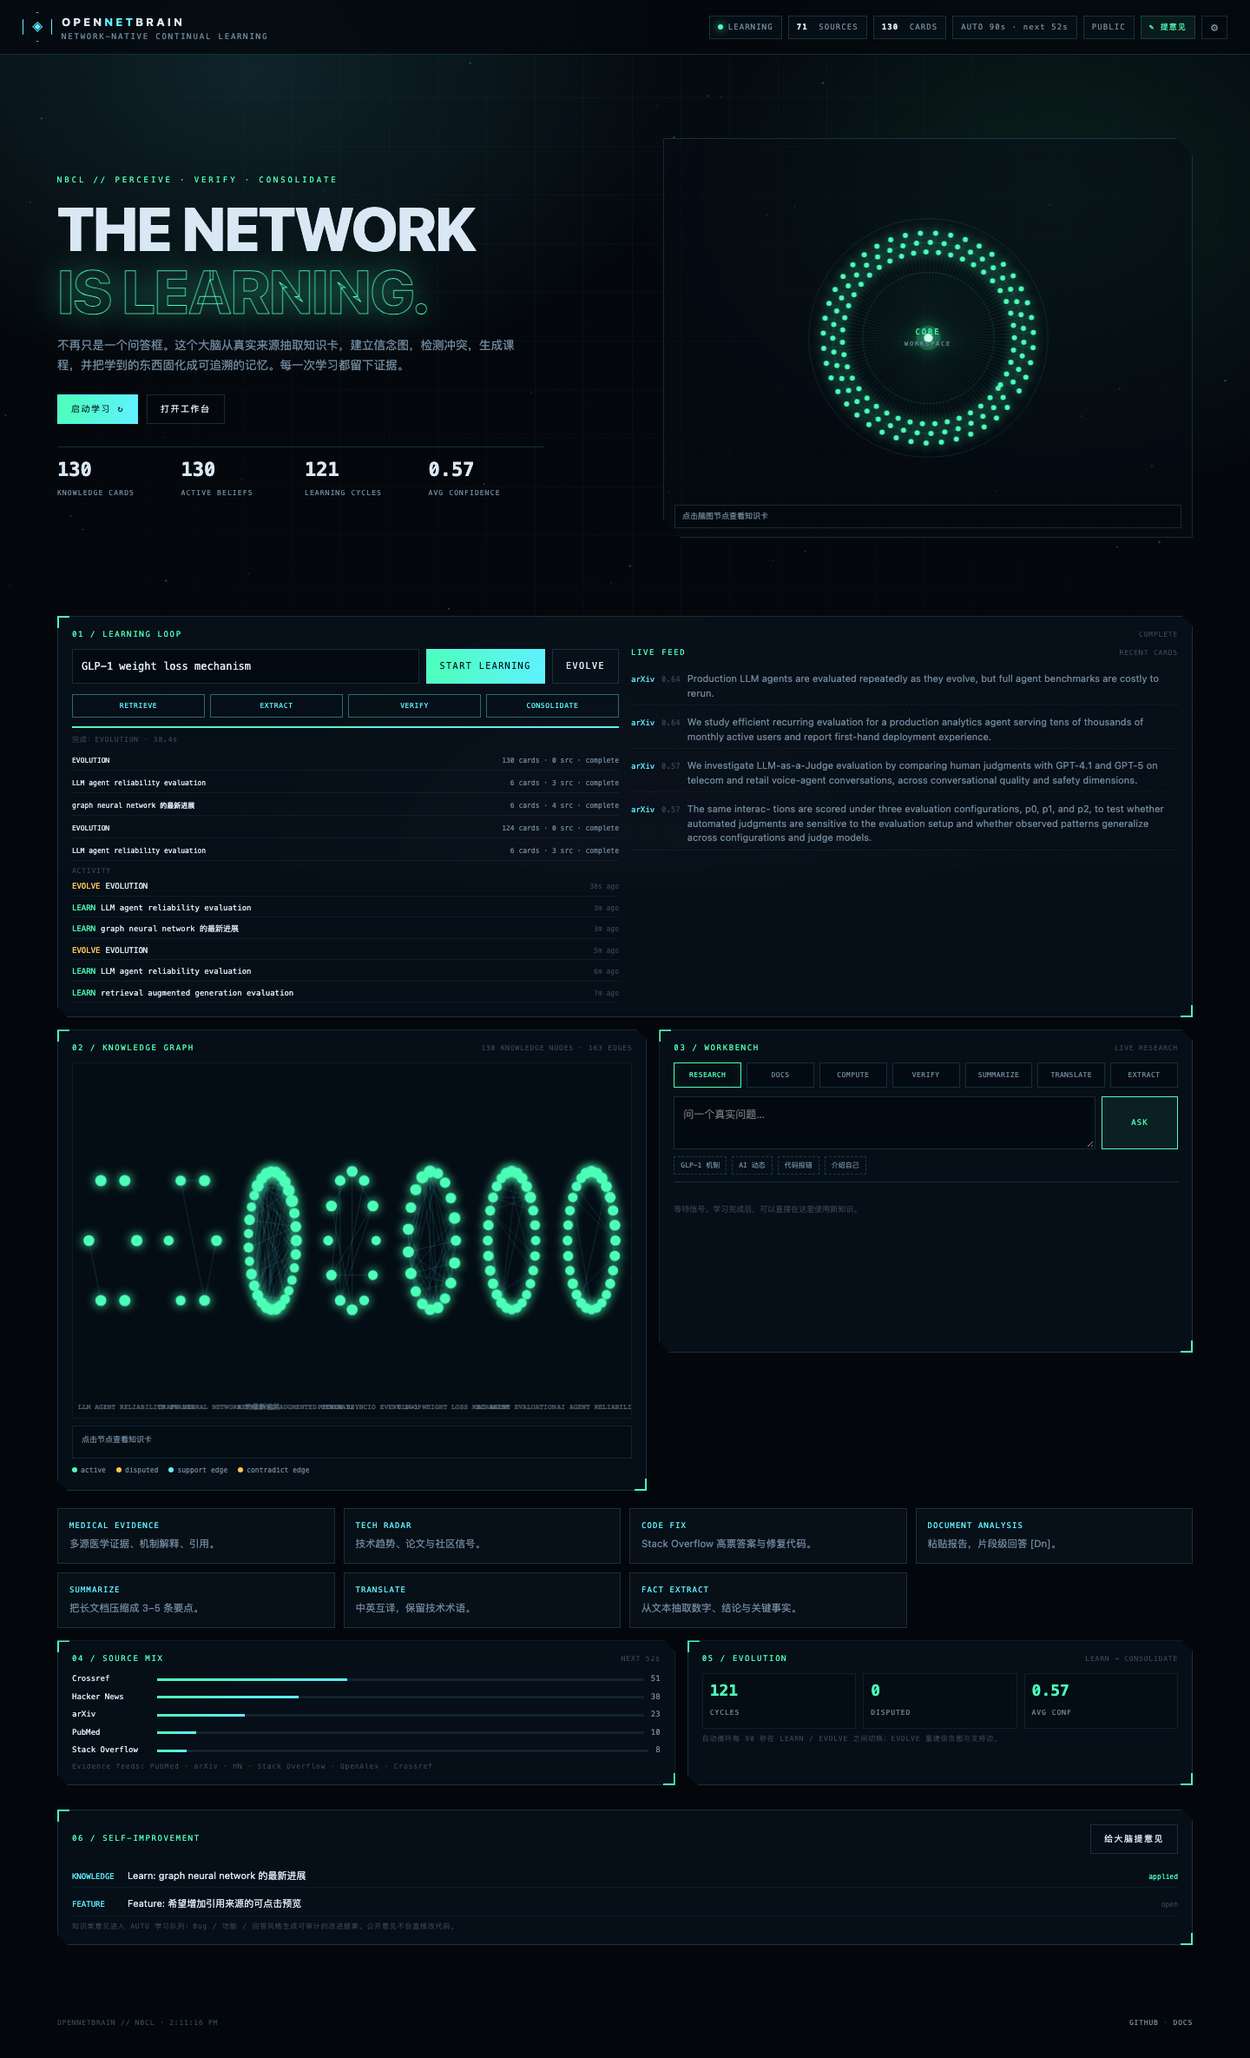
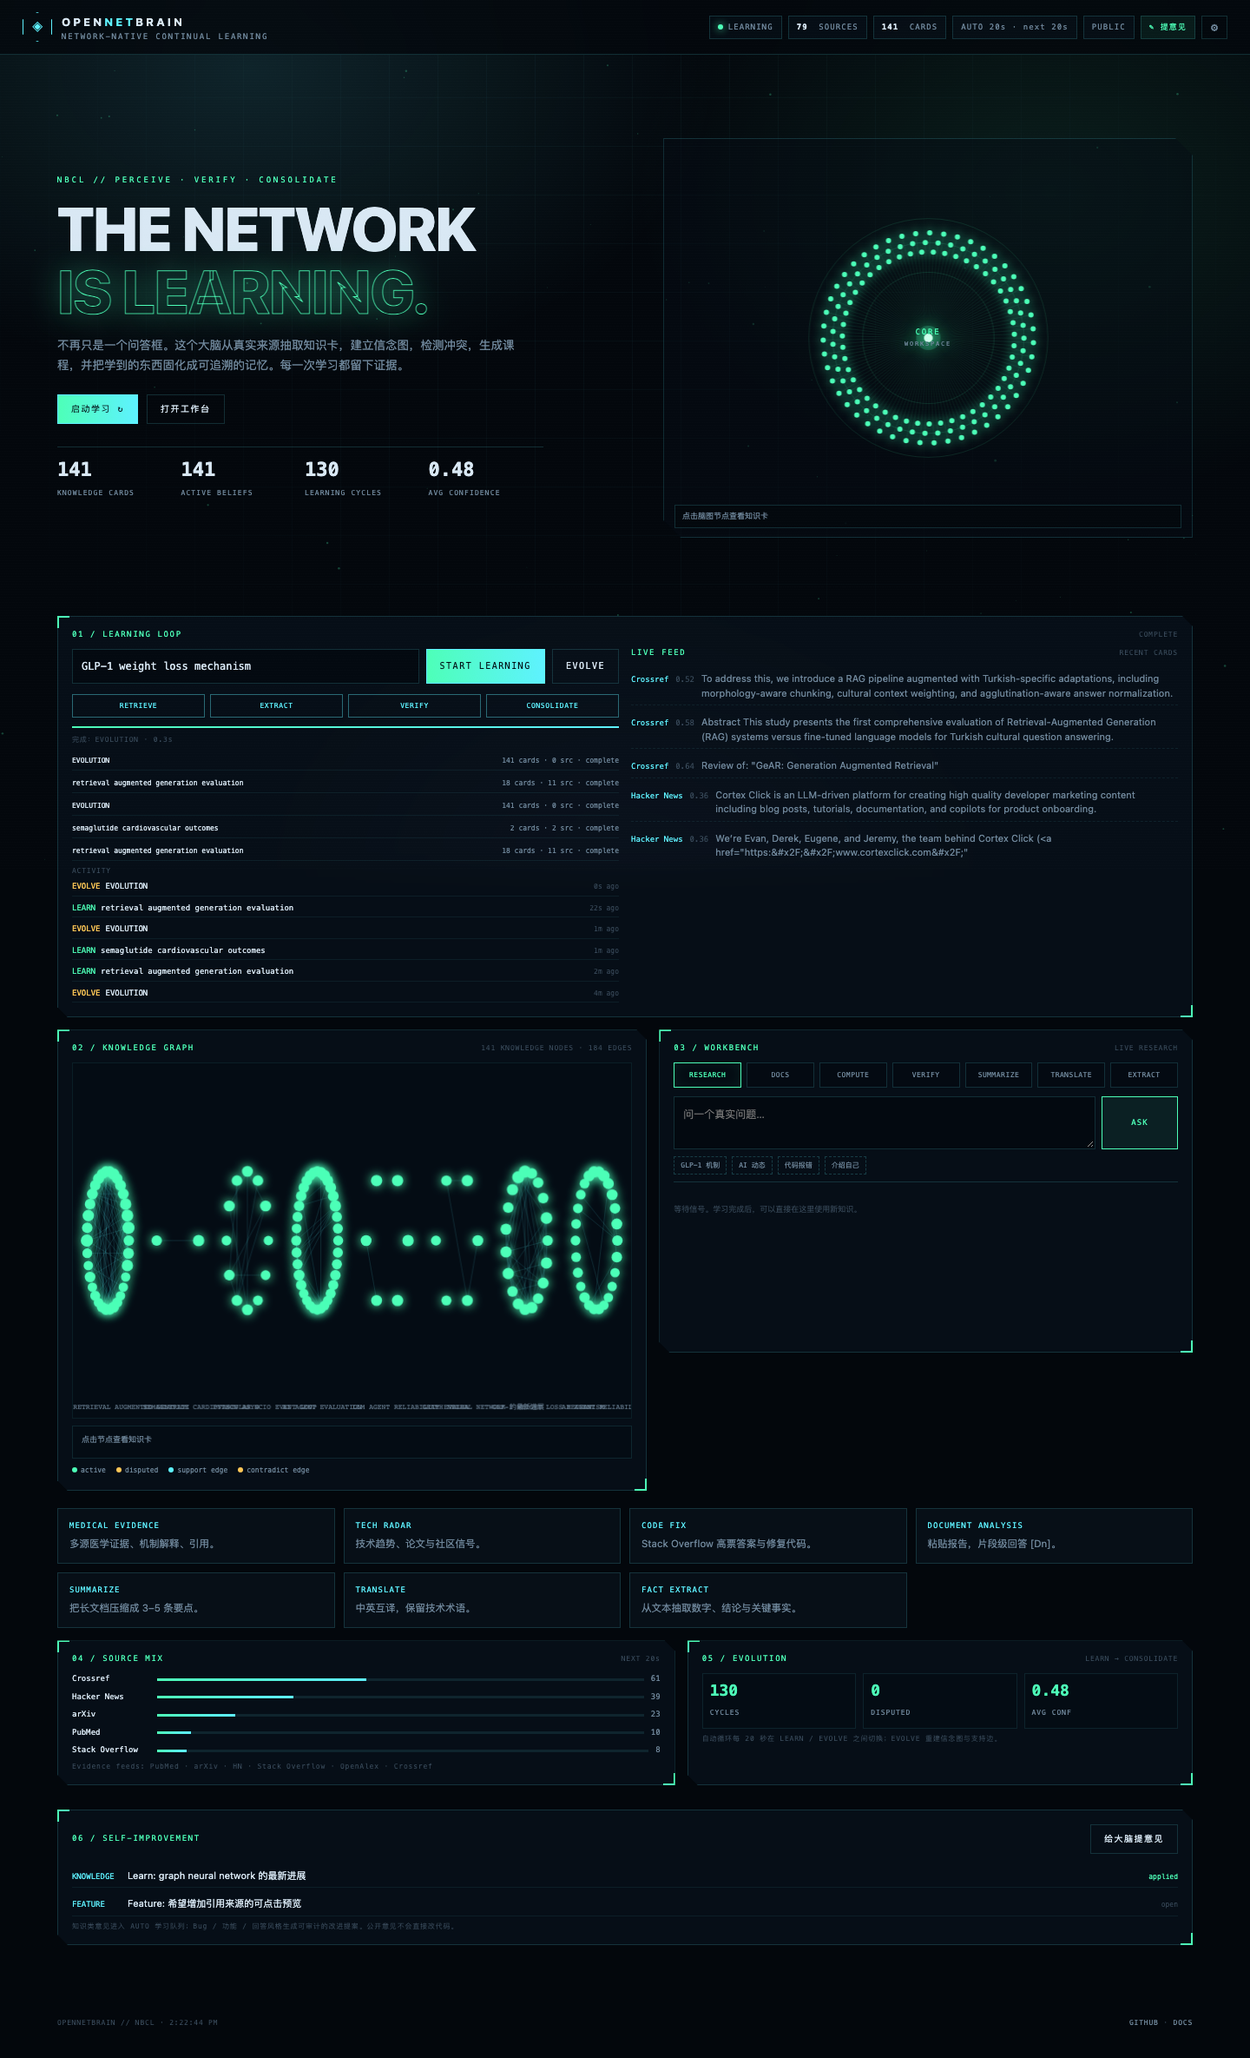
perf: 20s auto interval + 15s heartbeat, v12

diff --git a/brain.html b/brain.html
@@ -188,8 +188,8 @@ footer{max-width:1360px;margin:0 auto;padding:0 26px 34px;display:flex;justify-c
     <div class="app" data-mode="research" data-q="GLP-1 减肥药的作用机制是什么？"><b>MEDICAL EVIDENCE</b><p>多源医学证据、机制解释、引用。</p></div>
     <div class="app" data-mode="research" data-q="最近 AI agent 评估有什么值得关注？"><b>TECH RADAR</b><p>技术趋势、论文与社区信号。</p></div>
     <div class="app" data-mode="research" data-q="Python asyncio RuntimeError event loop is closed 怎么解决？"><b>CODE FIX</b><p>Stack Overflow 高票答案与修复代码。</p></div>
-    <div class="app" data-mode="docs" data-doc="OpenNetBrain 从真实来源抽取知识卡，建立信念图，检测冲突并生成课程。它每 90 秒自动学习/进化，所有知识都可追溯。" data-q="这份文档的核心结论是什么？"><b>DOCUMENT ANALYSIS</b><p>粘贴报告，片段级回答 [Dn]。</p></div>
-    <div class="app" data-mode="summarize" data-doc="OpenNetBrain 从真实来源抽取知识卡，建立信念图，检测冲突并生成课程。它每 90 秒自动学习/进化，所有知识都可追溯。知识卡、信念图和课程让网络持续积累可追溯的记忆。" data-q="总结要点"><b>SUMMARIZE</b><p>把长文档压缩成 3–5 条要点。</p></div>
+    <div class="app" data-mode="docs" data-doc="OpenNetBrain 从真实来源抽取知识卡，建立信念图，检测冲突并生成课程。它每 20 秒自动学习/进化，所有知识都可追溯。" data-q="这份文档的核心结论是什么？"><b>DOCUMENT ANALYSIS</b><p>粘贴报告，片段级回答 [Dn]。</p></div>
+    <div class="app" data-mode="summarize" data-doc="OpenNetBrain 从真实来源抽取知识卡，建立信念图，检测冲突并生成课程。它每 20 秒自动学习/进化，所有知识都可追溯。知识卡、信念图和课程让网络持续积累可追溯的记忆。" data-q="总结要点"><b>SUMMARIZE</b><p>把长文档压缩成 3–5 条要点。</p></div>
     <div class="app" data-mode="translate" data-doc="OpenNetBrain learns from real sources. It builds knowledge cards, a belief graph, and answers with citations." data-q="翻译"><b>TRANSLATE</b><p>中英互译，保留技术术语。</p></div>
     <div class="app" data-mode="extract" data-doc="GLP-1 receptor agonists reduce appetite and slow gastric emptying. In a 2023 review, semaglutide produced 15% weight loss in adults with obesity. The trial enrolled 1,961 participants over 68 weeks." data-q="提取关键事实"><b>FACT EXTRACT</b><p>从文本抽取数字、结论与关键事实。</p></div>
   </section>
@@ -205,7 +205,7 @@ footer{max-width:1360px;margin:0 auto;padding:0 26px 34px;display:flex;justify-c
       <div class="evo-grid" id="evoStats">
         <div><b>--</b><span>CYCLES</span></div><div><b>--</b><span>DISPUTED</span></div><div><b>--</b><span>AVG CONF</span></div>
       </div>
-      <div class="hint" style="margin-top:8px">自动循环每 90 秒在 LEARN / EVOLVE 之间切换；EVOLVE 重建信念图与支持边。</div>
+      <div class="hint" style="margin-top:8px">自动循环每 20 秒在 LEARN / EVOLVE 之间切换；EVOLVE 重建信念图与支持边。</div>
     </div>
   </section>
   <section class="panel" style="margin-top:14px">
@@ -222,7 +222,7 @@ footer{max-width:1360px;margin:0 auto;padding:0 26px 34px;display:flex;justify-c
   <button class="card-close" id="closeFeedback">×</button>
   <div class="tag">COMMUNITY INPUT // SELF-IMPROVEMENT</div>
   <h3>给网络大脑提意见</h3>
-  <p class="hint">告诉它哪里不好、缺什么能力，或希望它学习什么主题。知识类意见会自动进入 90 秒 AUTO 学习队列。</p>
+  <p class="hint">告诉它哪里不好、缺什么能力，或希望它学习什么主题。知识类意见会自动进入 20 秒 AUTO 学习队列。</p>
   <select id="fbKind">
     <option value="knowledge">知识 / 学习主题</option>
     <option value="feature">功能建议</option>

diff --git a/docs/brain.html b/docs/brain.html
@@ -188,8 +188,8 @@ footer{max-width:1360px;margin:0 auto;padding:0 26px 34px;display:flex;justify-c
     <div class="app" data-mode="research" data-q="GLP-1 减肥药的作用机制是什么？"><b>MEDICAL EVIDENCE</b><p>多源医学证据、机制解释、引用。</p></div>
     <div class="app" data-mode="research" data-q="最近 AI agent 评估有什么值得关注？"><b>TECH RADAR</b><p>技术趋势、论文与社区信号。</p></div>
     <div class="app" data-mode="research" data-q="Python asyncio RuntimeError event loop is closed 怎么解决？"><b>CODE FIX</b><p>Stack Overflow 高票答案与修复代码。</p></div>
-    <div class="app" data-mode="docs" data-doc="OpenNetBrain 从真实来源抽取知识卡，建立信念图，检测冲突并生成课程。它每 90 秒自动学习/进化，所有知识都可追溯。" data-q="这份文档的核心结论是什么？"><b>DOCUMENT ANALYSIS</b><p>粘贴报告，片段级回答 [Dn]。</p></div>
-    <div class="app" data-mode="summarize" data-doc="OpenNetBrain 从真实来源抽取知识卡，建立信念图，检测冲突并生成课程。它每 90 秒自动学习/进化，所有知识都可追溯。知识卡、信念图和课程让网络持续积累可追溯的记忆。" data-q="总结要点"><b>SUMMARIZE</b><p>把长文档压缩成 3–5 条要点。</p></div>
+    <div class="app" data-mode="docs" data-doc="OpenNetBrain 从真实来源抽取知识卡，建立信念图，检测冲突并生成课程。它每 20 秒自动学习/进化，所有知识都可追溯。" data-q="这份文档的核心结论是什么？"><b>DOCUMENT ANALYSIS</b><p>粘贴报告，片段级回答 [Dn]。</p></div>
+    <div class="app" data-mode="summarize" data-doc="OpenNetBrain 从真实来源抽取知识卡，建立信念图，检测冲突并生成课程。它每 20 秒自动学习/进化，所有知识都可追溯。知识卡、信念图和课程让网络持续积累可追溯的记忆。" data-q="总结要点"><b>SUMMARIZE</b><p>把长文档压缩成 3–5 条要点。</p></div>
     <div class="app" data-mode="translate" data-doc="OpenNetBrain learns from real sources. It builds knowledge cards, a belief graph, and answers with citations." data-q="翻译"><b>TRANSLATE</b><p>中英互译，保留技术术语。</p></div>
     <div class="app" data-mode="extract" data-doc="GLP-1 receptor agonists reduce appetite and slow gastric emptying. In a 2023 review, semaglutide produced 15% weight loss in adults with obesity. The trial enrolled 1,961 participants over 68 weeks." data-q="提取关键事实"><b>FACT EXTRACT</b><p>从文本抽取数字、结论与关键事实。</p></div>
   </section>
@@ -205,7 +205,7 @@ footer{max-width:1360px;margin:0 auto;padding:0 26px 34px;display:flex;justify-c
       <div class="evo-grid" id="evoStats">
         <div><b>--</b><span>CYCLES</span></div><div><b>--</b><span>DISPUTED</span></div><div><b>--</b><span>AVG CONF</span></div>
       </div>
-      <div class="hint" style="margin-top:8px">自动循环每 90 秒在 LEARN / EVOLVE 之间切换；EVOLVE 重建信念图与支持边。</div>
+      <div class="hint" style="margin-top:8px">自动循环每 20 秒在 LEARN / EVOLVE 之间切换；EVOLVE 重建信念图与支持边。</div>
     </div>
   </section>
   <section class="panel" style="margin-top:14px">
@@ -222,7 +222,7 @@ footer{max-width:1360px;margin:0 auto;padding:0 26px 34px;display:flex;justify-c
   <button class="card-close" id="closeFeedback">×</button>
   <div class="tag">COMMUNITY INPUT // SELF-IMPROVEMENT</div>
   <h3>给网络大脑提意见</h3>
-  <p class="hint">告诉它哪里不好、缺什么能力，或希望它学习什么主题。知识类意见会自动进入 90 秒 AUTO 学习队列。</p>
+  <p class="hint">告诉它哪里不好、缺什么能力，或希望它学习什么主题。知识类意见会自动进入 20 秒 AUTO 学习队列。</p>
   <select id="fbKind">
     <option value="knowledge">知识 / 学习主题</option>
     <option value="feature">功能建议</option>

diff --git a/docs/index.html b/docs/index.html
@@ -38,10 +38,10 @@ footer{border-top:1px solid var(--line);margin-top:20px;padding-top:14px;display
 <main>
   <p class="eyebrow">NBCL // PERCEIVE · VERIFY · CONSOLIDATE</p>
   <h1>THE NETWORK<br><em>IS LEARNING.</em></h1>
-  <p class="lead">OpenNetBrain 是一个持续学习的网络大脑：从真实来源抽取知识卡，建立信念图，检测冲突，生成课程，并把学到的东西固化成可追溯的记忆。它每 90 秒自动在“学习”和“进化”之间切换。</p>
+  <p class="lead">OpenNetBrain 是一个持续学习的网络大脑：从真实来源抽取知识卡，建立信念图，检测冲突，生成课程，并把学到的东西固化成可追溯的记忆。它每 20 秒自动在“学习”和“进化”之间切换。</p>
   <div class="actions">
-    <a class="btn" href="./brain.html?v=11">进入网络大脑</a>
-    <a class="btn ghost" href="./brain.html?v=11&feedback=1">给大脑提意见</a>
+    <a class="btn" href="./brain.html?v=12">进入网络大脑</a>
+    <a class="btn ghost" href="./brain.html?v=12&feedback=1">给大脑提意见</a>
     <a class="btn ghost" href="https://github.com/zacrisy/open-net-agent">GitHub</a>
     <a class="btn ghost" href="https://github.com/zacrisy/open-net-agent/blob/main/nbpw/DESIGN.md">设计文档</a>
   </div>
@@ -55,13 +55,13 @@ footer{border-top:1px solid var(--line);margin-top:20px;padding-top:14px;display
   <div class="grid">
     <div class="card"><b>LEARN</b><p>从 PubMed / arXiv / HN / Stack Overflow / OpenAlex / Crossref 抽取知识卡，带来源与置信度。</p></div>
     <div class="card"><b>REVISE</b><p>信念图保留支持/冲突/争议关系；新证据不删除旧卡，而是标记与审计。</p></div>
-    <div class="card"><b>CONSOLIDATE</b><p>去重、重建图、更新边；自动循环每 90 秒执行一次进化。</p></div>
+    <div class="card"><b>CONSOLIDATE</b><p>去重、重建图、更新边；自动循环每 20 秒执行一次进化。</p></div>
     <div class="card"><b>ANSWER</b><p>研究、文档、计算、核查、摘要、翻译、事实抽取——都带来源或可追溯轨迹。</p></div>
   </div>
 
   <footer>
     <div>OPENNETBRAIN // NBCL</div>
-    <div><a href="https://github.com/zacrisy/open-net-agent">GITHUB</a> · <a href="https://github.com/zacrisy/open-net-agent/blob/main/nbpw/REPORT_CONTINUAL.md">持续学习实验</a> · <a href="brain.html?v=11">控制台</a></div>
+    <div><a href="https://github.com/zacrisy/open-net-agent">GITHUB</a> · <a href="https://github.com/zacrisy/open-net-agent/blob/main/nbpw/REPORT_CONTINUAL.md">持续学习实验</a> · <a href="brain.html?v=12">控制台</a></div>
   </footer>
 </main>
 </body>

diff --git a/brain.py b/brain.py
@@ -10,7 +10,8 @@ except Exception:
 DB = os.path.join(os.path.dirname(os.path.abspath(__file__)), "brain.db")
 LOCK = threading.Lock()
 CURRENT = {"cycle_id": None, "topic": None, "stage": "idle", "started": None, "elapsed": 0}
-AUTO = {"enabled": False, "interval": 600, "next": None, "last": None, "last_kind": None}
+AUTO = {"enabled": False, "interval": 20, "next": None, "last": None, "last_kind": None}
+AUTO_INTERVAL = 20
 AUTO_STARTED = False
 DEFAULT_TOPIC = "GLP-1 weight loss mechanism"
 
@@ -227,7 +228,10 @@ def graph():
 
 
 AUTO_TOPICS = ["GLP-1 weight loss mechanism", "AI agent evaluation", "Python asyncio event loop",
-               "LLM agent reliability evaluation", "retrieval augmented generation evaluation"]
+               "LLM agent reliability evaluation", "retrieval augmented generation evaluation",
+               "graph neural network advances", "knowledge graph construction",
+               "continual learning catastrophic forgetting", "federated learning privacy",
+               "semaglutide cardiovascular outcomes"]
 
 
 def auto_start(interval=90):
@@ -348,7 +352,7 @@ def auto_tick():
             return {"status": "wait", "next_in": round(AUTO["next"] - now)}
         busy = CURRENT.get("stage") in ("retrieving", "extracting", "verifying", "consolidating")
     if busy:
-        with LOCK: AUTO["next"] = time.time() + 30
+        with LOCK: AUTO["next"] = time.time() + 5
         return {"status": "busy", "stage": CURRENT.get("stage")}
     fb = next_feedback_topic()
     if fb:
@@ -361,8 +365,8 @@ def auto_tick():
     else:
         r = start(random.choice(AUTO_TOPICS)); action = "learn"
     with LOCK:
-        AUTO.update({"enabled": True, "interval": 90, "next": time.time() + 90, "last": time.time()})
-    return {"status": "started", "action": action, "result": r, "next_in": 90}
+        AUTO.update({"enabled": True, "interval": AUTO_INTERVAL, "next": time.time() + AUTO_INTERVAL, "last": time.time()})
+    return {"status": "started", "action": action, "result": r, "next_in": AUTO_INTERVAL}
 
 
 def maybe_bootstrap():

diff --git a/promo/LAUNCH.md b/promo/LAUNCH.md
@@ -2,8 +2,8 @@
 
 ## 链接
 
-- **控制台（推荐）**：https://zacrisy.github.io/open-net-agent/brain.html?v=11
-- **短链**：https://tinyurl.com/27m45zdm
+- **控制台（推荐）**：https://zacrisy.github.io/open-net-agent/brain.html?v=12
+- **短链**：https://tinyurl.com/2d5fd8en
 - **仓库**：https://github.com/zacrisy/open-net-agent
 - **Release**：https://github.com/zacrisy/open-net-agent/releases/tag/v0.7.0
 - **Discussion**：https://github.com/zacrisy/open-net-agent/discussions/6
@@ -22,7 +22,7 @@
 
 **Title:** Show HN: OpenNetAgent – a network agent that cites real sources
 
-**URL:** https://zacrisy.github.io/open-net-agent/brain.html?v=11
+**URL:** https://zacrisy.github.io/open-net-agent/brain.html?v=12
 
 **Body:**
 
@@ -69,7 +69,7 @@ increases orexin release”, which is not in any source. So I changed the design
 Feedback (upvote) becomes experience → knowledge pack → new nodes pull it → later
 answers cite `network memory`.
 
-Control deck: https://tinyurl.com/27m45zdm
+Control deck: https://tinyurl.com/2d5fd8en
 Repo: https://github.com/zacrisy/open-net-agent
 
 Would love feedback on source ranking, translation quality, and how to distribute
@@ -97,7 +97,7 @@ curl -fsSL $COORD/install.sh | bash -s -- \
 - coordinator routes research / docs / compute / NLI tasks.
 
 I’m looking for 3–5 machine LAN tests and WAN latency reports. Control deck:
-https://tinyurl.com/27m45zdm
+https://tinyurl.com/2d5fd8en
 
 ---
 
@@ -117,7 +117,7 @@ Evidence first, not vibes.
 5/ Upvote an answer → experience → knowledge pack → new nodes pull it → later
 answers cite `network memory`.
 
-6/ Try it: https://tinyurl.com/27m45zdm
+6/ Try it: https://tinyurl.com/2d5fd8en
 Repo: https://github.com/zacrisy/open-net-agent
 Looking for node runners + contributors.
 
@@ -142,7 +142,7 @@ Looking for node runners + contributors.
 实测：GLP-1 机制返回 4 篇真实论文，约 11 秒；asyncio 报错返回 Stack Overflow
 高票答案。
 
-体验：https://tinyurl.com/27m45zdm
+体验：https://tinyurl.com/2d5fd8en
 仓库：https://github.com/zacrisy/open-net-agent
 加入节点：https://github.com/zacrisy/open-net-agent/issues/4
 

diff --git a/README.md b/README.md
@@ -5,7 +5,7 @@
 > 一个持续学习的网络大脑：从真实来源抽取知识卡，建立信念图，检测冲突，自动学习/进化，并根据使用者意见改进。
 
 [![CI](https://github.com/zacrisy/open-net-agent/actions/workflows/ci.yml/badge.svg)](https://github.com/zacrisy/open-net-agent/actions)
-[![Pages](https://img.shields.io/badge/live-GitHub%20Pages-blue)](https://zacrisy.github.io/open-net-agent/brain.html?v=11)
+[![Pages](https://img.shields.io/badge/live-GitHub%20Pages-blue)](https://zacrisy.github.io/open-net-agent/brain.html?v=12)
 [![License: MIT](https://img.shields.io/badge/License-MIT-green.svg)](LICENSE)
 [![Python 3.9+](https://img.shields.io/badge/python-3.9%2B-blue.svg)](https://www.python.org/)
 
@@ -13,8 +13,8 @@
 
 ## Live
 
-- **Brain console**: <https://zacrisy.github.io/open-net-agent/brain.html?v=11>
-- **Feedback window**: 控制台右上角 **✎ 提意见**，或 <https://zacrisy.github.io/open-net-agent/brain.html?v=11&feedback=1>
+- **Brain console**: <https://zacrisy.github.io/open-net-agent/brain.html?v=12>
+- **Feedback window**: 控制台右上角 **✎ 提意见**，或 <https://zacrisy.github.io/open-net-agent/brain.html?v=12&feedback=1>
 - **Landing**: <https://zacrisy.github.io/open-net-agent/>
 - **GitHub**: <https://github.com/zacrisy/open-net-agent>
 - **Release v0.3.1**: <https://github.com/zacrisy/open-net-agent/releases/tag/v0.3.1>
@@ -33,7 +33,7 @@ RETRIEVE → EXTRACT → VERIFY → CONSOLIDATE → EVOLVE
 - 每轮抽取**知识卡**：claim、evidence、source、confidence、status；
 - 建立**信念图**：supports / contradicts / disputed；
 - 去重、重建图、更新边；
-- AUTO 每 **90 秒**在 LEARN / EVOLVE 之间切换（依赖协调者进程常驻）。
+- AUTO 每 **20 秒**在 LEARN / EVOLVE 之间切换（依赖协调者进程常驻）。
 
 > 这里的“学习”是知识卡、信念图和课程层的学习，不是全局权重反向传播。物理限制与实验见 [`nbpw/DESIGN.md`](nbpw/DESIGN.md)。
 

diff --git a/ONLINE.md b/ONLINE.md
@@ -2,7 +2,7 @@
 
 ## 公网访问（已开通）
 
-- **控制台（推荐，无隧道警告）**：<https://zacrisy.github.io/open-net-agent/brain.html?v=11>
+- **控制台（推荐，无隧道警告）**：<https://zacrisy.github.io/open-net-agent/brain.html?v=12>
 - **后端 / 一键加入**：<https://opennetagent2.serveousercontent.com/>（serveo 固定域名；浏览器直连会看到 Serveo 警告页）
 
 - **公网 URL**：<https://opennetagent2.serveousercontent.com/>
@@ -26,7 +26,7 @@
 
 - Browser API（primary）：`https://meal-mature-blah-shepherd.trycloudflare.com`（Cloudflare Quick Tunnel，随机地址，重启会变）
 - CLI / fallback：`https://opennetagent2.serveousercontent.com`（serveo 固定子域名）
-- UI：<https://zacrisy.github.io/open-net-agent/brain.html?v=11>
+- UI：<https://zacrisy.github.io/open-net-agent/brain.html?v=12>
 
 ## 架构
 
